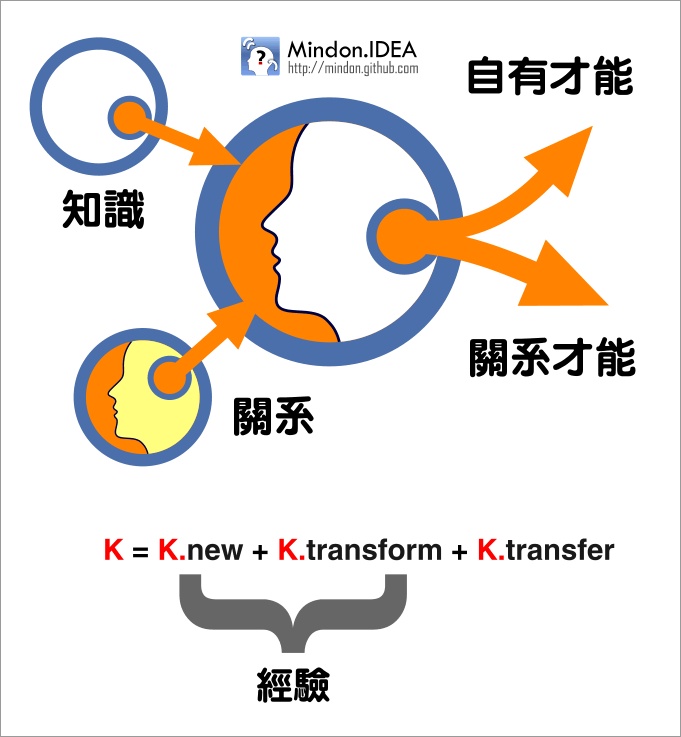
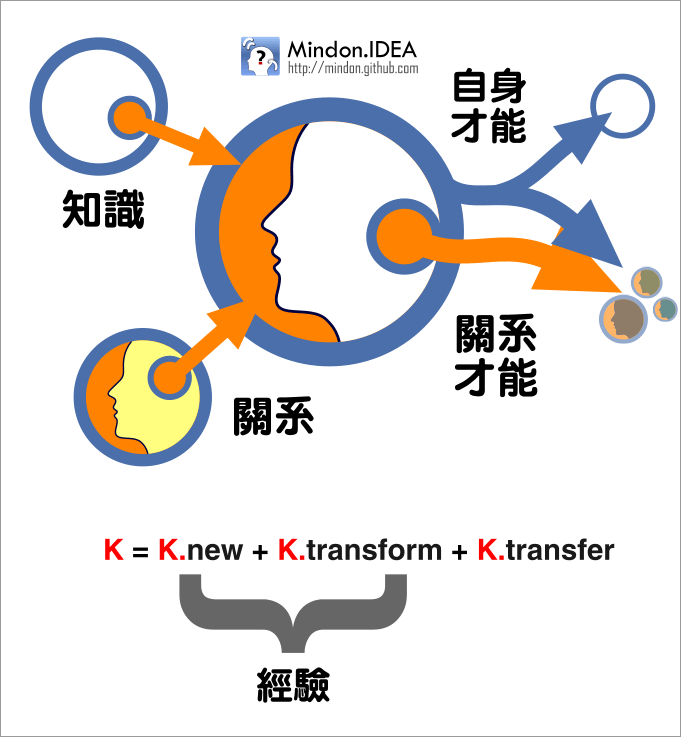
Site updated at 2012-10-08 23:14:45 UTC

Changed region(s): [[0.6167, 0.0624, 1.0, 0.5617]]

diff --git a/blog/2012/10/08/relationship-abilities/index.html b/blog/2012/10/08/relationship-abilities/index.html
@@ -168,13 +168,13 @@
 
 <p><img src="/images/blog/ar/a2.png" alt="" /></p>
 
-<p>才能通过知识学习，以及与其他个体的建立关联而形成；而才能的输出则是自有才能的积累，还有由于关系而形成的综合才能输出两部分构成。自有才能总是有限的，而关系才能则是动态变化，可以无限强大的——不可忽视的能力构成。</p>
+<p>才能通过知识学习，以及与其他个体的建立关联而形成；而才能的输出则是自身才能的积累，还有由于关联而形成的关系才能输出两部分构成。自身才能总是有限的，而关系才能则是动态变化，可以无限强大的——不可忽视的能力构成。</p>
 
 <h2><strong>自有才能和关系才能模型</strong>：</h2>
 
 <p><img src="/images/blog/ar/a3.png" alt="" /></p>
 
-<p>个体的某种能力An = 自有能力 An,0 + 关系比重系数 Rn x ( 关系1能力系数 rn,1 x 关联能力 A&#8217;n,1 + &#8230;)</p>
+<p>个体的某种能力An = 自有能力 An,0 + 关系比重系数 Rn × ( 关系1能力系数 rn,1 × 关联能力 A&#8217;n,1 + &#8230;)</p>
 
 <p>可见，关系链的关联量直接影响到能力的强大与否——其实关系是最重要的才能来源。</p>
 
@@ -182,7 +182,7 @@
 
 <p>当然还有资金输出强者——富豪类，工具输出强者——发明家，物品输出强者——生产商，体力输出强者——体力劳动者。</p>
 
-<p>社交关系链，在个体能力增强方面是很有价值的——谁能首先挖掘到这一大金矿呢？</p>
+<p>社交关系链，在个体能力增强和发挥方面是很有价值的——谁能首先挖掘到这一大金矿呢？关系才能的重视，对自身的能力思考又会带来什么样的冲击？我们的才能构成是什么样的？我们的有效输出又是什么？</p>
 
 </div>
 
